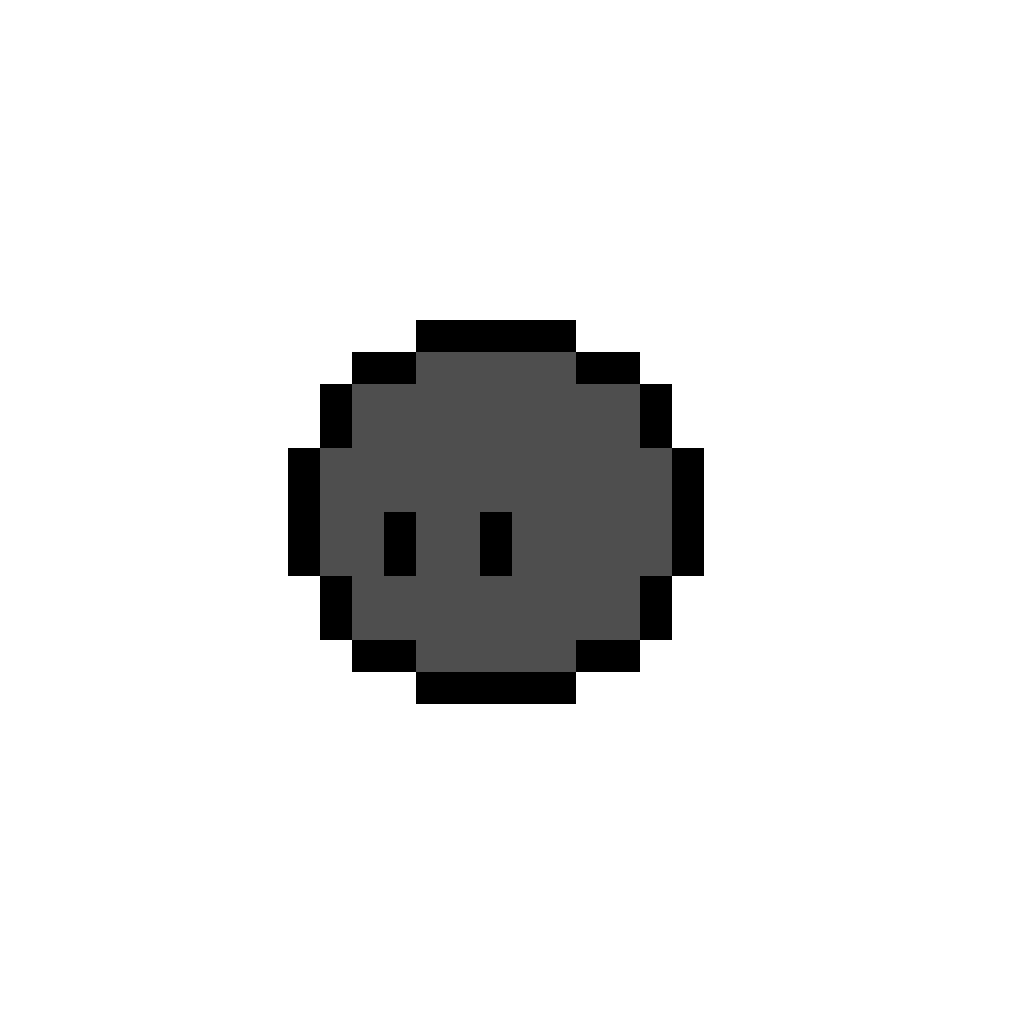
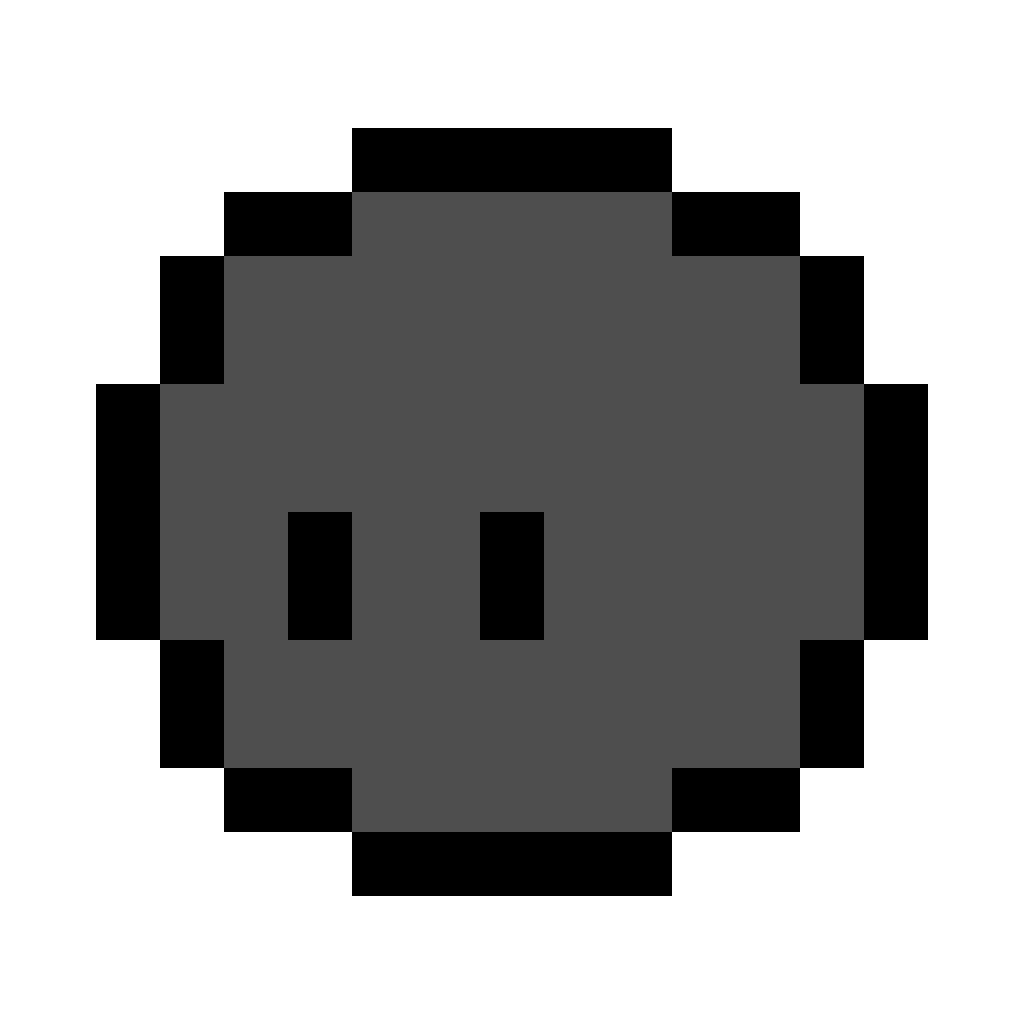
프롤로그 권한 화면 스타일 통일 + 손쉬운 사용 권한 감지 수정 + 앱 아이콘 확대
- 온보딩 권한 목록을 질문 카드 톤(테두리+점선+마커)으로 재구성하고,
  권한 단계에서만 실제 렌더링 높이에 맞춰 팝업 창을 키워 잘림을 없앰
- probeDockPermission이 AppleScript 성공 여부로 권한을 간접 추론하던 것을
  systemPreferences.isTrustedAccessibilityClient로 교체해 자동화 권한과
  섞이지 않고 손쉬운 사용 권한을 정확히 확인하도록 수정
- 캐릭터가 1024px 캔버스의 40%만 차지하던 앱 아이콘을 81%까지 확대

diff --git a/src/renderer/tray/tray-onboarding.js b/src/renderer/tray/tray-onboarding.js
@@ -141,13 +141,13 @@ function renderPermissionRows() {
   onboardingPerms.replaceChildren(
     ...ONBOARDING_PERMISSIONS.map((perm) => {
       const granted = permGranted[perm.key];
-      const row = document.createElement("div");
-      row.className = "onboarding-perm";
+      // 허용된 항목은 클릭할 게 없으니 div로, 미허용 항목은 행 전체를 버튼으로 둔다.
+      const row = document.createElement(granted ? "div" : "button");
+      row.className = granted ? "onboarding-perm granted" : "onboarding-perm";
 
-      const box = document.createElement("span");
-      box.className = "onboarding-perm-box";
-      box.classList.toggle("on", granted);
-      box.textContent = granted ? "[✓]" : "[  ]";
+      const mark = document.createElement("span");
+      mark.className = "onboarding-perm-mark";
+      mark.textContent = granted ? "✓" : "▶";
 
       const body = document.createElement("div");
       body.className = "onboarding-perm-body";
@@ -159,16 +159,32 @@ function renderPermissionRows() {
       desc.textContent = perm.desc;
       body.append(label, desc);
 
-      row.append(box, body);
+      row.append(mark, body);
       if (!granted) {
-        const btn = document.createElement("button");
-        btn.className = "onboarding-perm-btn";
-        btn.textContent = permTried[perm.key] ? "설정 열기" : "허용";
-        btn.addEventListener("click", () => requestPermission(perm.key));
-        row.append(btn);
+        const hint = document.createElement("span");
+        hint.className = "onboarding-perm-hint";
+        hint.textContent = permTried[perm.key] ? "설정 열기" : "허용";
+        row.append(hint);
+        row.addEventListener("click", () => requestPermission(perm.key));
       }
       return row;
     }),
+  );
+  resizeOnboardingPerms();
+}
+
+// 권한 단계는 씬+안내문+권한 목록을 합치면 기본 팝업 높이(540px)를 넘을 수 있고,
+// 온보딩 화면은 overflow:hidden이라 스크롤로 대응할 수 없다. 메뉴 화면처럼 실제
+// 렌더링된 높이를 측정해 이 스텝에서만 창을 그만큼 키운다(허용 상태가 바뀌어
+// 행이 줄어들면 다시 줄어든다).
+function resizeOnboardingPerms() {
+  if (onboardingPerms.classList.contains("hidden")) return;
+  window.trayAPI.resizePopup(
+    document.querySelector(".titlebar").offsetHeight +
+      onboardingScene.offsetHeight +
+      document.querySelector(".onboarding-dialog").offsetHeight +
+      6 + // #popup 상하 테두리(3px×2)
+      10, // 창 = #popup + 10px (하드 섀도우 여백)
   );
 }
 

diff --git a/src/main/dock-tracker.js b/src/main/dock-tracker.js
@@ -8,22 +8,20 @@
 // 2순위(권한 없을 때): Electron API + 커서 위치 휴리스틱으로 근사한다.
 //   - 상시 표시 Dock: 화면 크기 - 작업 영역 차이로 높이 계산 (가로 범위는 전체로 간주)
 //   - 자동 숨김 Dock: 커서가 화면 맨 아래에 닿으면 "올라옴", Dock 높이 위로 벗어나면 "내려감"
-const { screen } = require("electron");
+const { screen, systemPreferences } = require("electron");
 const { execFile } = require("child_process");
 
-// Dock의 실제 사각형을 읽는 스크립트. 손쉬운 사용/자동화 권한이 여기에만 쓰이므로,
-// 권한 확인도 이 스크립트를 실제로 한 번 돌려보는 것으로 갈음한다(아래 probeDockPermission).
+// Dock의 실제 사각형을 읽는 스크립트. 손쉬운 사용/자동화 권한이 여기에만 쓰인다.
 const DOCK_SCRIPT =
   'tell application "System Events" to tell process "Dock" to get {position, size} of list 1';
 
-// 온보딩 권한 화면용. 스크립트를 한 번 실행해 성공하면 손쉬운 사용·자동화가 모두
-// 허용된 것이다. 두 권한 모두 이 호출 하나를 위해 존재하므로 따로 조회할 이유가 없고,
-// 허용 전이라면 이 호출이 시스템 권한 창을 띄우는 역할까지 겸한다.
+// 온보딩 권한 화면용. AppleScript 성공 여부로 간접 추론하면 자동화(Automation)만
+// 허용돼도 성공해버려 손쉬운 사용(Accessibility) 목록과 어긋난다. macOS의 손쉬운
+// 사용 목록을 직접 확인하는 API를 쓴다. 허용 전이라면 이 호출이 시스템 권한 창을
+// 띄우는 역할까지 겸한다.
 function probeDockPermission() {
   if (process.platform !== "darwin") return Promise.resolve(true);
-  return new Promise((resolve) => {
-    execFile("osascript", ["-e", DOCK_SCRIPT], (err) => resolve(!err));
-  });
+  return Promise.resolve(systemPreferences.isTrustedAccessibilityClient(true));
 }
 
 // getWindow: 상태를 보낼 BrowserWindow를 돌려주는 함수 (없거나 파괴됐으면 전송 생략).

diff --git a/src/renderer/tray/tray.css b/src/renderer/tray/tray.css
@@ -1164,9 +1164,10 @@ body {
   word-break: keep-all;
 }
 
-/* 질문 단계: 질문 텍스트 + 선택지를 펫 창 질문 카드(qcard)와 같은
-   한 장의 카드로 묶고, 항목은 점선으로 구분한다 */
-.onboarding-dialog:has(.onboarding-options:not(.hidden)) .onboarding-text {
+/* 질문 단계 / 권한 단계: 안내 텍스트 + 선택지(또는 권한 목록)를 펫 창 질문 카드(qcard)와
+   같은 한 장의 카드로 묶고, 항목은 점선으로 구분한다 */
+.onboarding-dialog:has(.onboarding-options:not(.hidden)) .onboarding-text,
+.onboarding-dialog:has(.onboarding-perms:not(.hidden)) .onboarding-text {
   min-height: 0;
   padding: 10px 12px;
   border: 2px solid #1b1b16;
@@ -1261,10 +1262,13 @@ body {
 }
 
 .onboarding-perm {
+  all: unset;
+  box-sizing: border-box;
   display: flex;
   align-items: flex-start;
+  width: 100%;
   gap: 8px;
-  padding: 9px 10px;
+  padding: 9px 12px;
   border-top: 2px dashed #cbc4b1;
 }
 
@@ -1272,15 +1276,26 @@ body {
   border-top: none;
 }
 
-.onboarding-perm-box {
+/* 미허용 항목은 행 전체가 버튼(허용/설정 열기 클릭 대상) */
+.onboarding-perm:not(.granted) {
+  cursor: pointer;
+}
+
+.onboarding-perm:not(.granted):hover {
+  background: #e7e1d2;
+}
+
+.onboarding-perm-mark {
   flex: none;
-  font-size: 11px;
-  line-height: 1.5;
+  width: 12px;
+  padding-top: 1px;
+  font-size: 8px;
   color: #a9a294;
 }
 
-.onboarding-perm-box.on {
-  color: #1b1b16;
+.onboarding-perm.granted .onboarding-perm-mark {
+  font-size: 11px;
+  color: #4f7a3f;
 }
 
 .onboarding-perm-body {
@@ -1301,21 +1316,12 @@ body {
   word-break: keep-all;
 }
 
-.onboarding-perm-btn {
-  all: unset;
-  box-sizing: border-box;
+.onboarding-perm-hint {
   flex: none;
-  cursor: pointer;
   align-self: center;
-  padding: 5px 10px;
-  border: 2px solid #1b1b16;
-  background: #faf7ef;
   font-size: 10px;
-  color: #1b1b16;
-}
-
-.onboarding-perm-btn:hover {
-  background: #e7e1d2;
+  letter-spacing: 0.3px;
+  color: #4f7a3f;
 }
 
 /* ---------- 공용 패널 ---------- */
